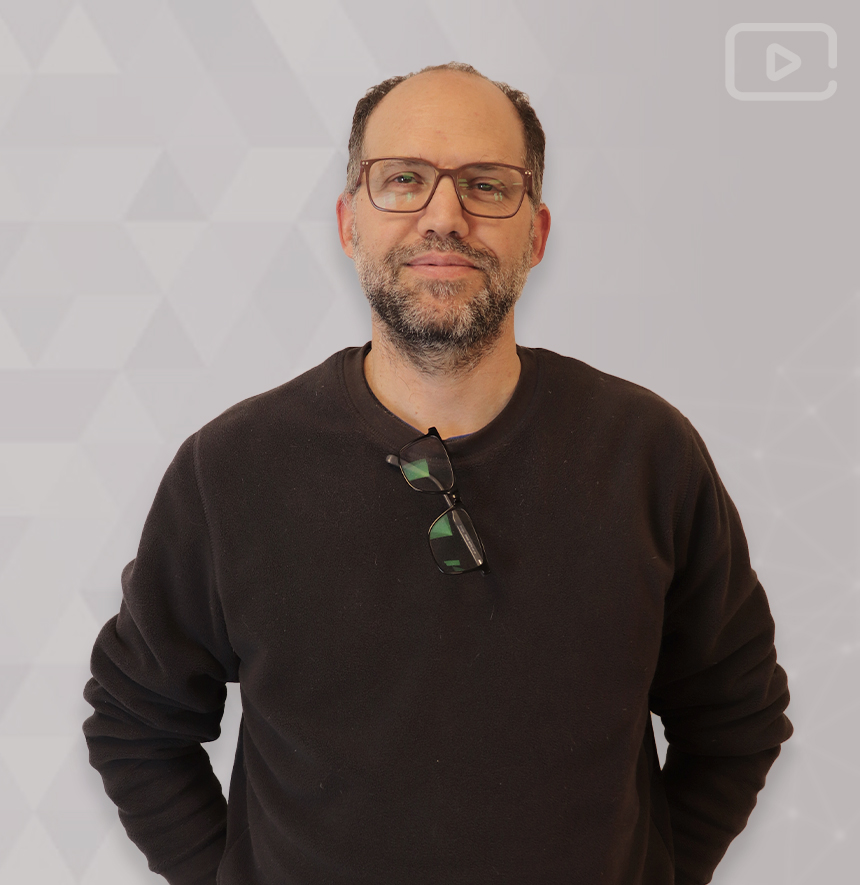
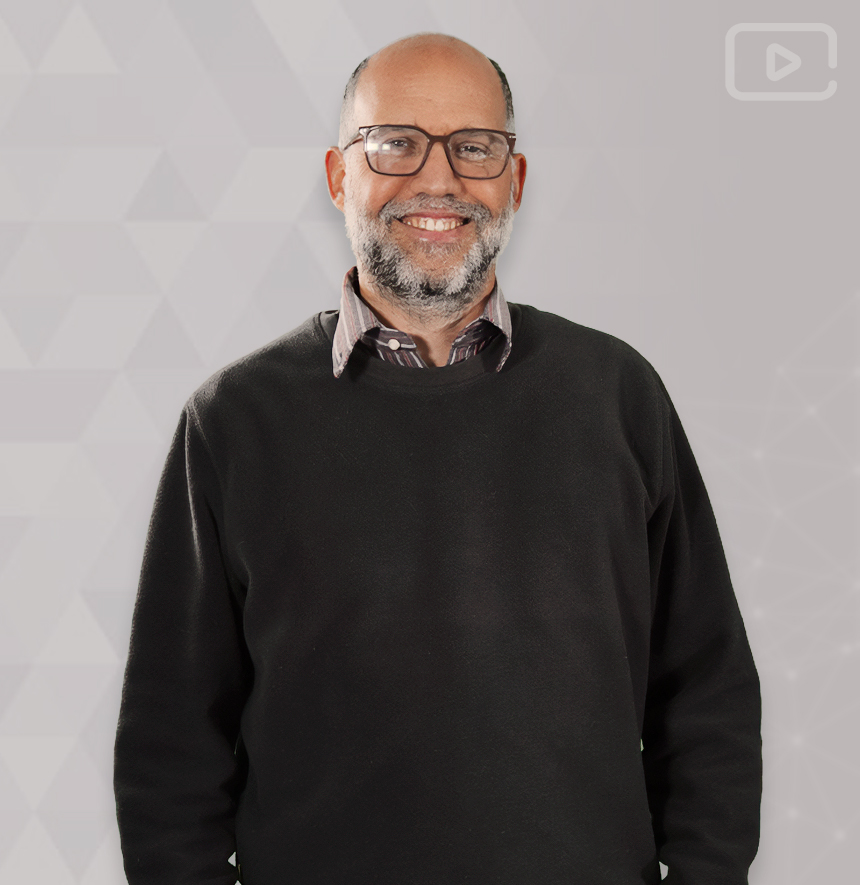
refactor: team TI data & images
- update jorge, vicente, felipe & thomas image
- update jorge, cata, vicente & felipe position

diff --git a/src/Content/Team/data.js b/src/Content/Team/data.js
@@ -98,7 +98,7 @@ export const team_members_data = {
         },
         {
             'name'          : 'Catalina M. A. Ilabaca',
-            'position'      : 'Desarrolladora',
+            'position'      : 'Ingeniera de software',
             'image'         : "/images/team/TI_Catalina.jpg",
             'links'         : {
                 'linkedin'  : 'https://www.linkedin.com/in/catalina-araya-ilabaca-1a4bba1b9/',
@@ -107,7 +107,7 @@ export const team_members_data = {
         },
         {
             'name'          : 'Jorge Barraza A.',
-            'position'      : 'Desarrollador',
+            'position'      : 'Ingeniero de software ',
             'image'         : "/images/team/TI_Jorge.jpg",
             'links'         : {
                 'github'    : 'https://github.com/jjorgeb'
@@ -115,7 +115,7 @@ export const team_members_data = {
         },
         {
             'name': 'Felipe Sologuren G.',
-            'position': 'Desarrollador DevOps.',
+            'position': 'DevOps',
             'image': "/images/team/TI_Felipe.jpg",
             'links': {
                 'linkedin': 'https://www.linkedin.com/in/felipe-sologuren-guti%C3%A9rrez-784b45b3/',
@@ -124,7 +124,7 @@ export const team_members_data = {
         },
         {
             'name': 'Vicente Astorga V.',
-            'position': 'Desarrollador DevOps.',
+            'position': 'DevOps',
             'image': "/images/team/TI_Vicente.jpg",
             'links': {
                 'linkedin': 'https://www.linkedin.com/in/vicente-astorga',
